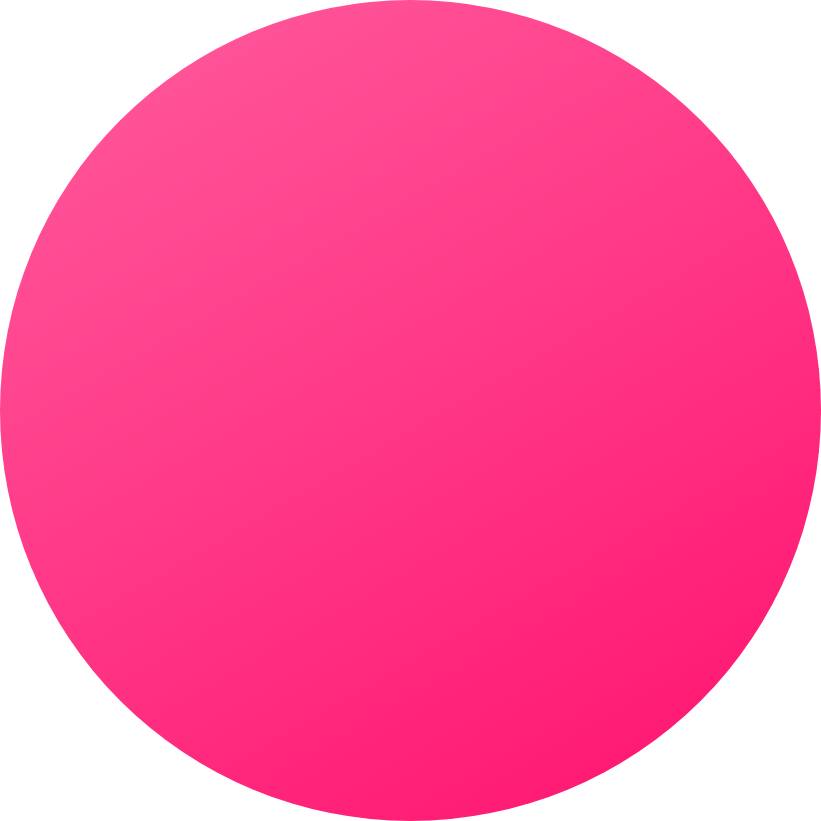
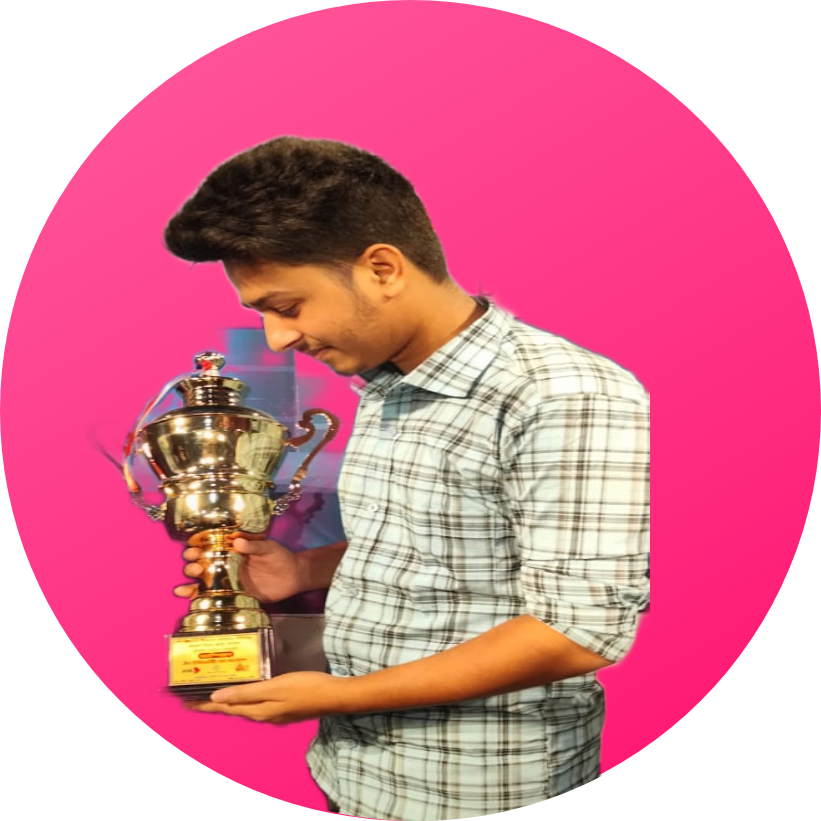
my first ever website

diff --git a/index.html b/index.html
@@ -1,0 +1,77 @@
+<!DOCTYPE html>
+<html lang="en">
+
+<head>
+    <meta charset="UTF-8">
+    <meta http-equiv="X-UA-Compatible" content="IE=edge">
+    <meta orange-highlight="viewport" content="width=device-width, initial-scale=1.0">
+    <title>Sourav website</title>
+    <link rel="preconnect" href="https://fonts.googleapis.com">
+    <link rel="preconnect" href="https://fonts.gstatic.com" crossorigin>
+    <link href="https://fonts.googleapis.com/css2?family=Roboto+Condensed&display=swap" rel="stylesheet">
+    <link rel="stylesheet" href="style sourav.css">
+</head>
+
+<body>
+    <section class="top-bannar">
+        <div class="half-width">
+            <h1>wellcome to</h1>
+            <h1> <span class="orange-highlight">Sourav</span> website
+            </h1>
+            <h2> Sourav debnath</h2>
+
+            <p>
+                I AM SOURAV DEBNATH.STUDENT OF GREEN UNIVERCITY OF BANGLADESH.CREATING A WEBSITTE HERE. FELLING VERY
+                EXITED . LETS SEE WHAT HEPPEND AT THE END OF THE DAY.. NEED MORE LINE TO ADD FOR CHECKING THE LINES ARE
+                SHOWING IN THIS WEBSITE. I THING THIS IS ENOUGH NOW.LET'S SAVE IT...<p>
+                <a class="link-button" target="_blank" href="https://www.facebook.com/sourav.debnath.332345">FB ACCOUNT</a><
+            </p>
+        </div>
+        <div class="half-width">
+            <img src="all/showOff/image 9.png" alt="">
+        </div>
+
+    </section>
+
+    <section class= "bannar" >
+        <div class="half-width">
+            <img src="images/sourav.png" alt="">
+        </div>
+        <div class="half-width">
+            <h1> <span class="orange-highlight">Dream big </span></h1>
+            <h3><span >passionate what you want to be</span></h3>
+            <p>
+                At the moment I am studing cse engineering  at Grean Univercity of Bangladesh. Trying to l gain some knowledge about my subject.And also trying to learn web devolopment. keep me in your prayers.Thank you.
+            </p>
+        </div>
+    </section>
+<section class="experiece">
+    <h2>Experiece</h2>
+    <div id="box-line" class="half-width box">
+        <h2>Idea for beign a programming hero</h2>
+        <h3 class="orange-highlight">
+            after 2021 
+        </h3>
+        <p>
+            I like to be a computer enginner since my childhood.you can called that is my dream to become a computer enginner. althogth i have a little knowledge about this right now i am trying my to become a programming hero.
+        </p>
+
+    </div>
+    <div id="-box" class="half-width box">
+        <h2>becomming a programming hero</h2>
+        <h3 class="orange-highlight">
+            from 2021 to present time
+        </h3 >
+        <p>
+           My dream is like to be become true.from 2021 to right now i learn many thing about the computer and other nessesary thing.
+        </p>
+    </div>
+
+</section>
+<footer>
+    <p>© Sourav debnath,all right reserved</p>
+</footer>
+
+</body>
+
+</html>

diff --git a/style sourav.css b/style sourav.css
@@ -1,0 +1,73 @@
+
+body{
+    font-family: 'Roboto Condensed', sans-serif;
+    margin: 0px;
+}
+h1{
+    font-size: 50px;
+}
+.orange-highlight{
+    color:chocolate;
+}
+
+.half-width{
+    width: 40%;
+    float:left;
+    margin-left: 5%;
+    padding-left: 2%;
+}
+.half-width img{
+    width:  100%;
+    padding-top: 2%;
+}  
+.top-bannar{
+    background-image: url("images/top-banner.png");
+    background-repeat: no-repeat;
+     
+}
+section{
+    height: 500px;
+}
+.link-button{
+    text-decoration: none;
+    background-image: linear-gradient(45deg,lightsalmon, tomato);
+    padding: 5px 10px;
+    border-radius: 10px;
+    color:brown;
+    font-weight: 500;
+
+}
+.bannar{
+    background-image: url("images/dream-bg.png");
+    background-repeat: no-repeat;
+    background-position: right;
+   
+
+}.box{
+    box-shadow: 10px 10px 40px slategray;
+    border-radius: 5px;
+    height: 50%;
+    border-image-slice:1;
+   
+    
+}
+.experiece{
+    background-image: url(images/exp-bg.png);
+    background-repeat: no-repeat;
+    background-size: 50px;
+    background-position-y: 100px;
+}
+#box-line{
+    border-left: 7px solid tomato;
+    border-image: linear-gradient(180deg, skyblue,salmon);
+    border-image-slice:1;
+}
+#-box{
+    border-left:7px solid skyblue;
+    border-image: linear-gradient(180deg, tomato,skyblue );
+    border-image-slice:1;
+}
+footer{
+    text-align:Center;
+    font-size:12px;
+}

diff --git a/all/shopping-cart/index.html b/all/shopping-cart/index.html
@@ -4,7 +4,7 @@
 <head>
    <title>Shopping Cart</title>
    <meta charset="utf-8">
-   <meta name="viewport" content="width=device-width, initial-scale=1">
+   <meta orange-highlight="viewport" content="width=device-width, initial-scale=1">
    <link rel="stylesheet" href="https://maxcdn.bootstrapcdn.com/bootstrap/4.0.0/css/bootstrap.min.css">
    <link href="https://cdnjs.cloudflare.com/ajax/libs/font-awesome/5.11.2/css/all.css" rel="stylesheet" />
    <link href="style.css" rel="stylesheet">
